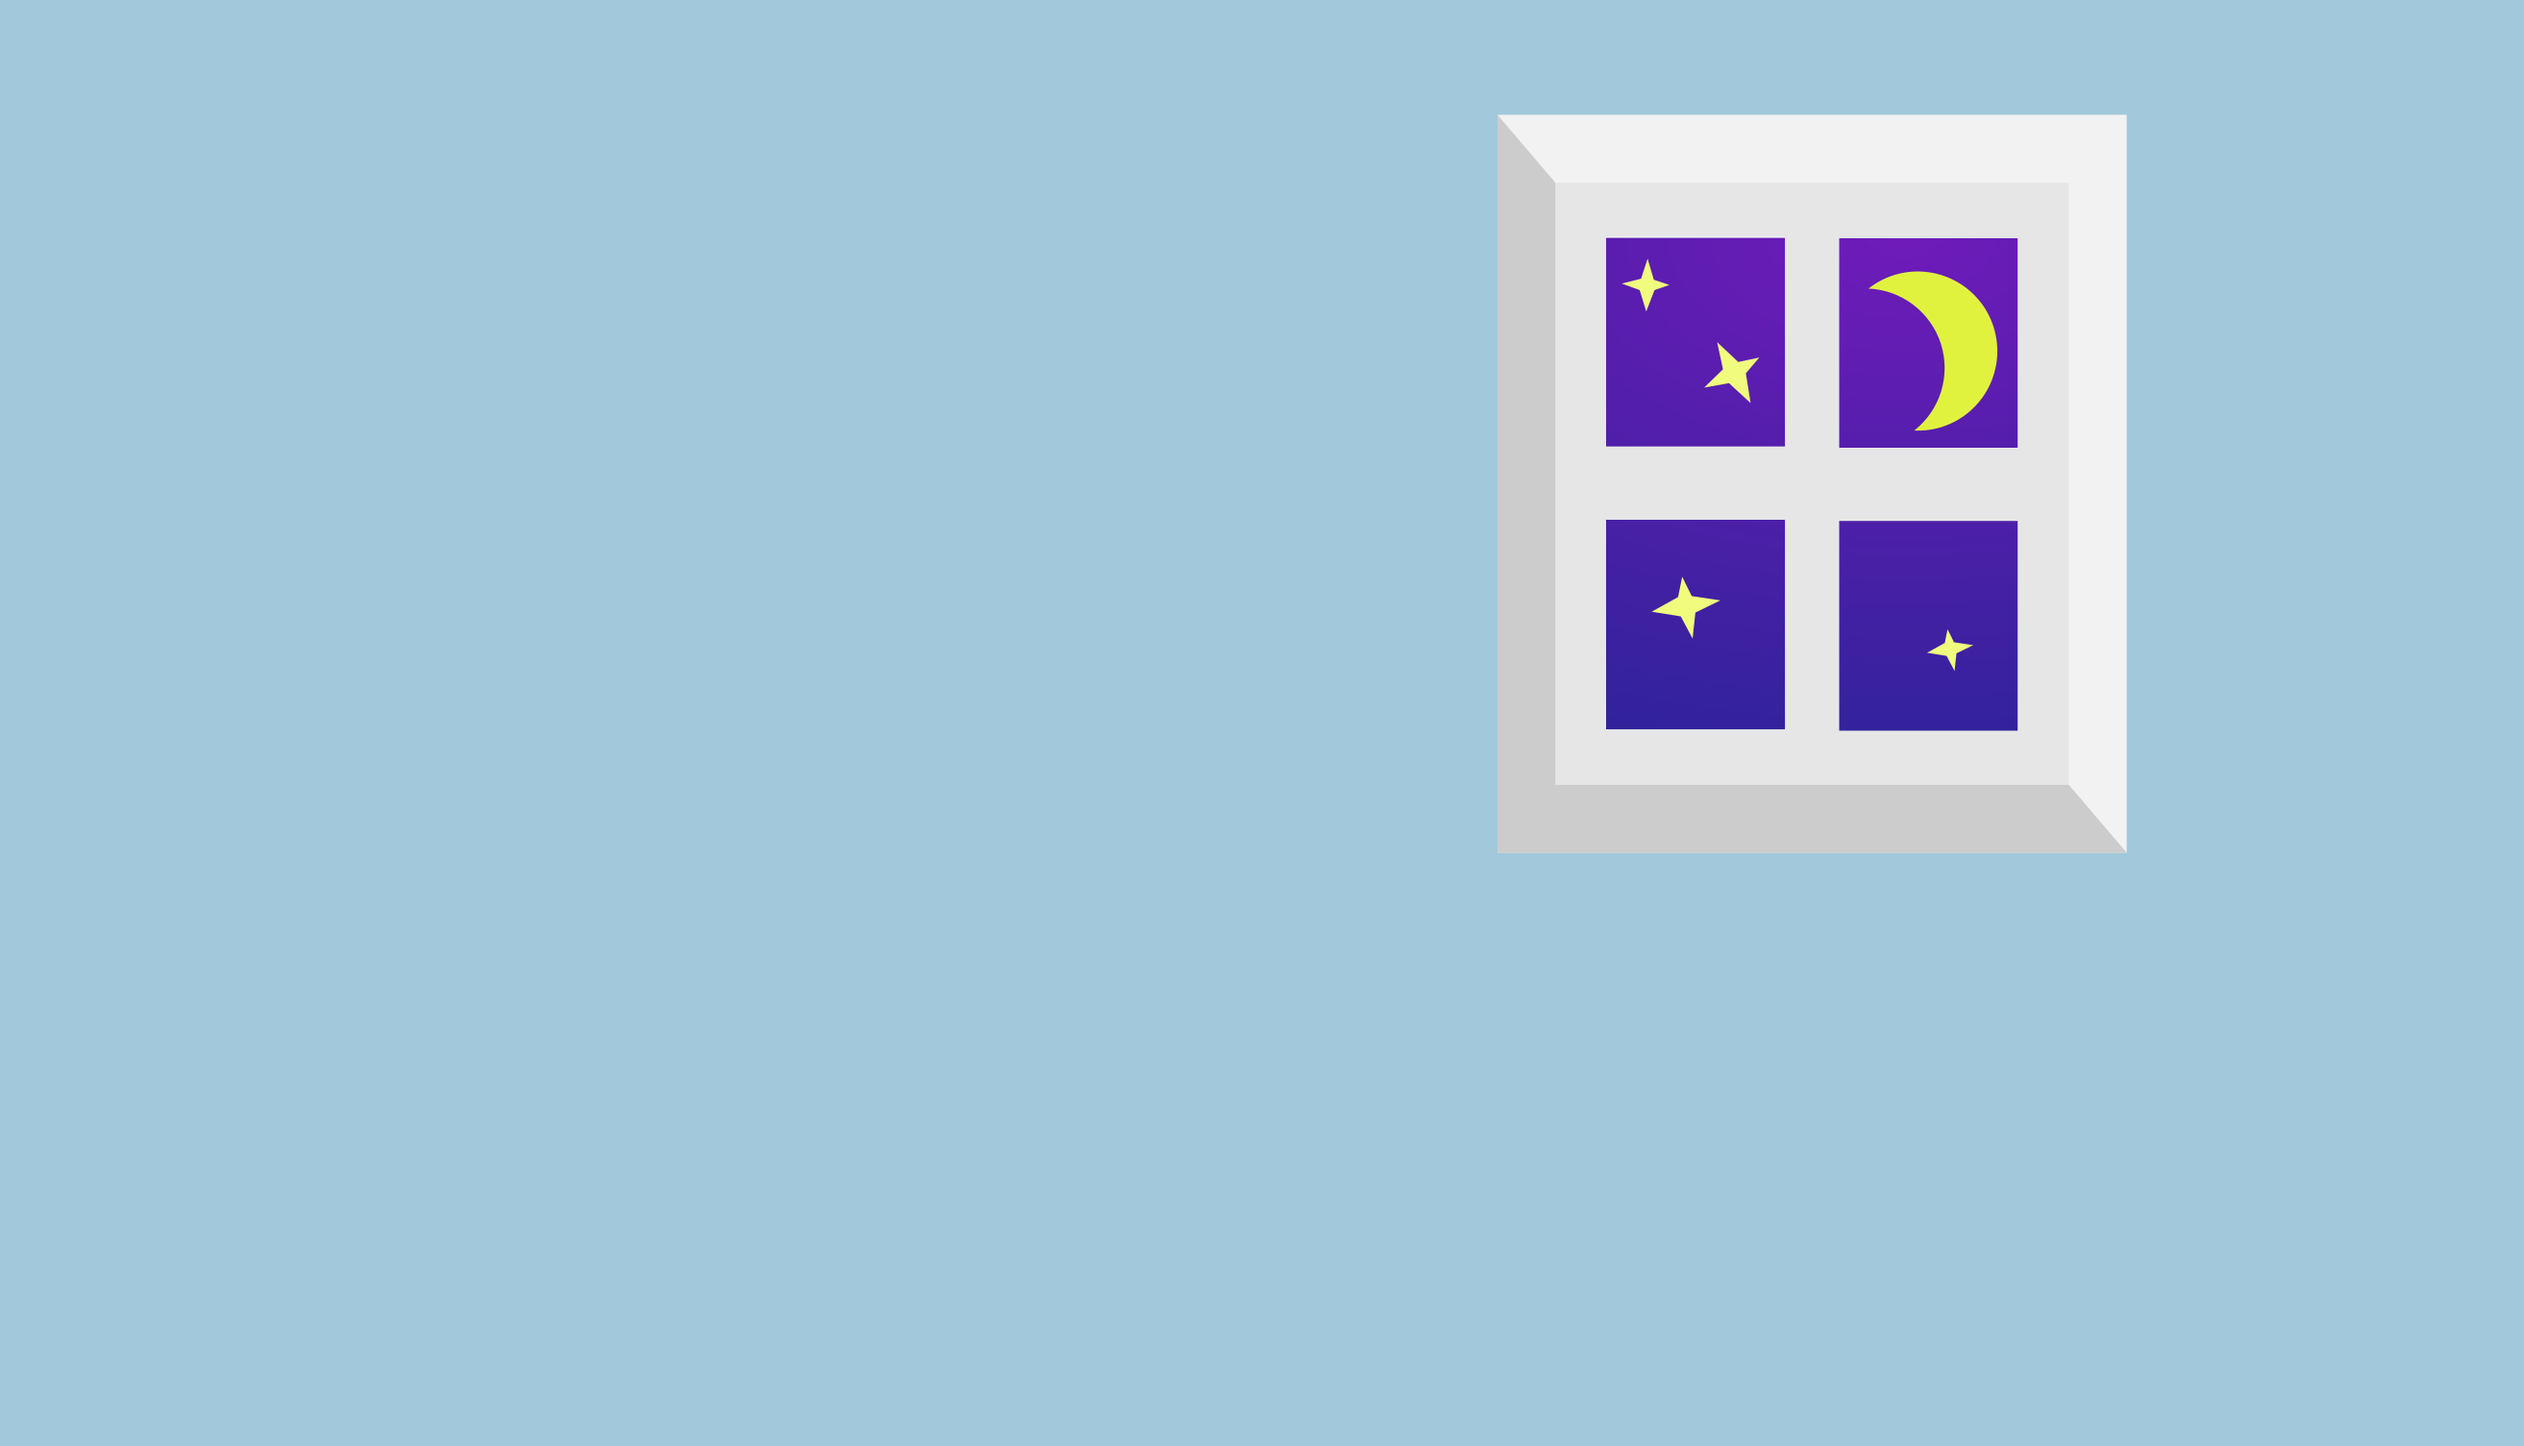
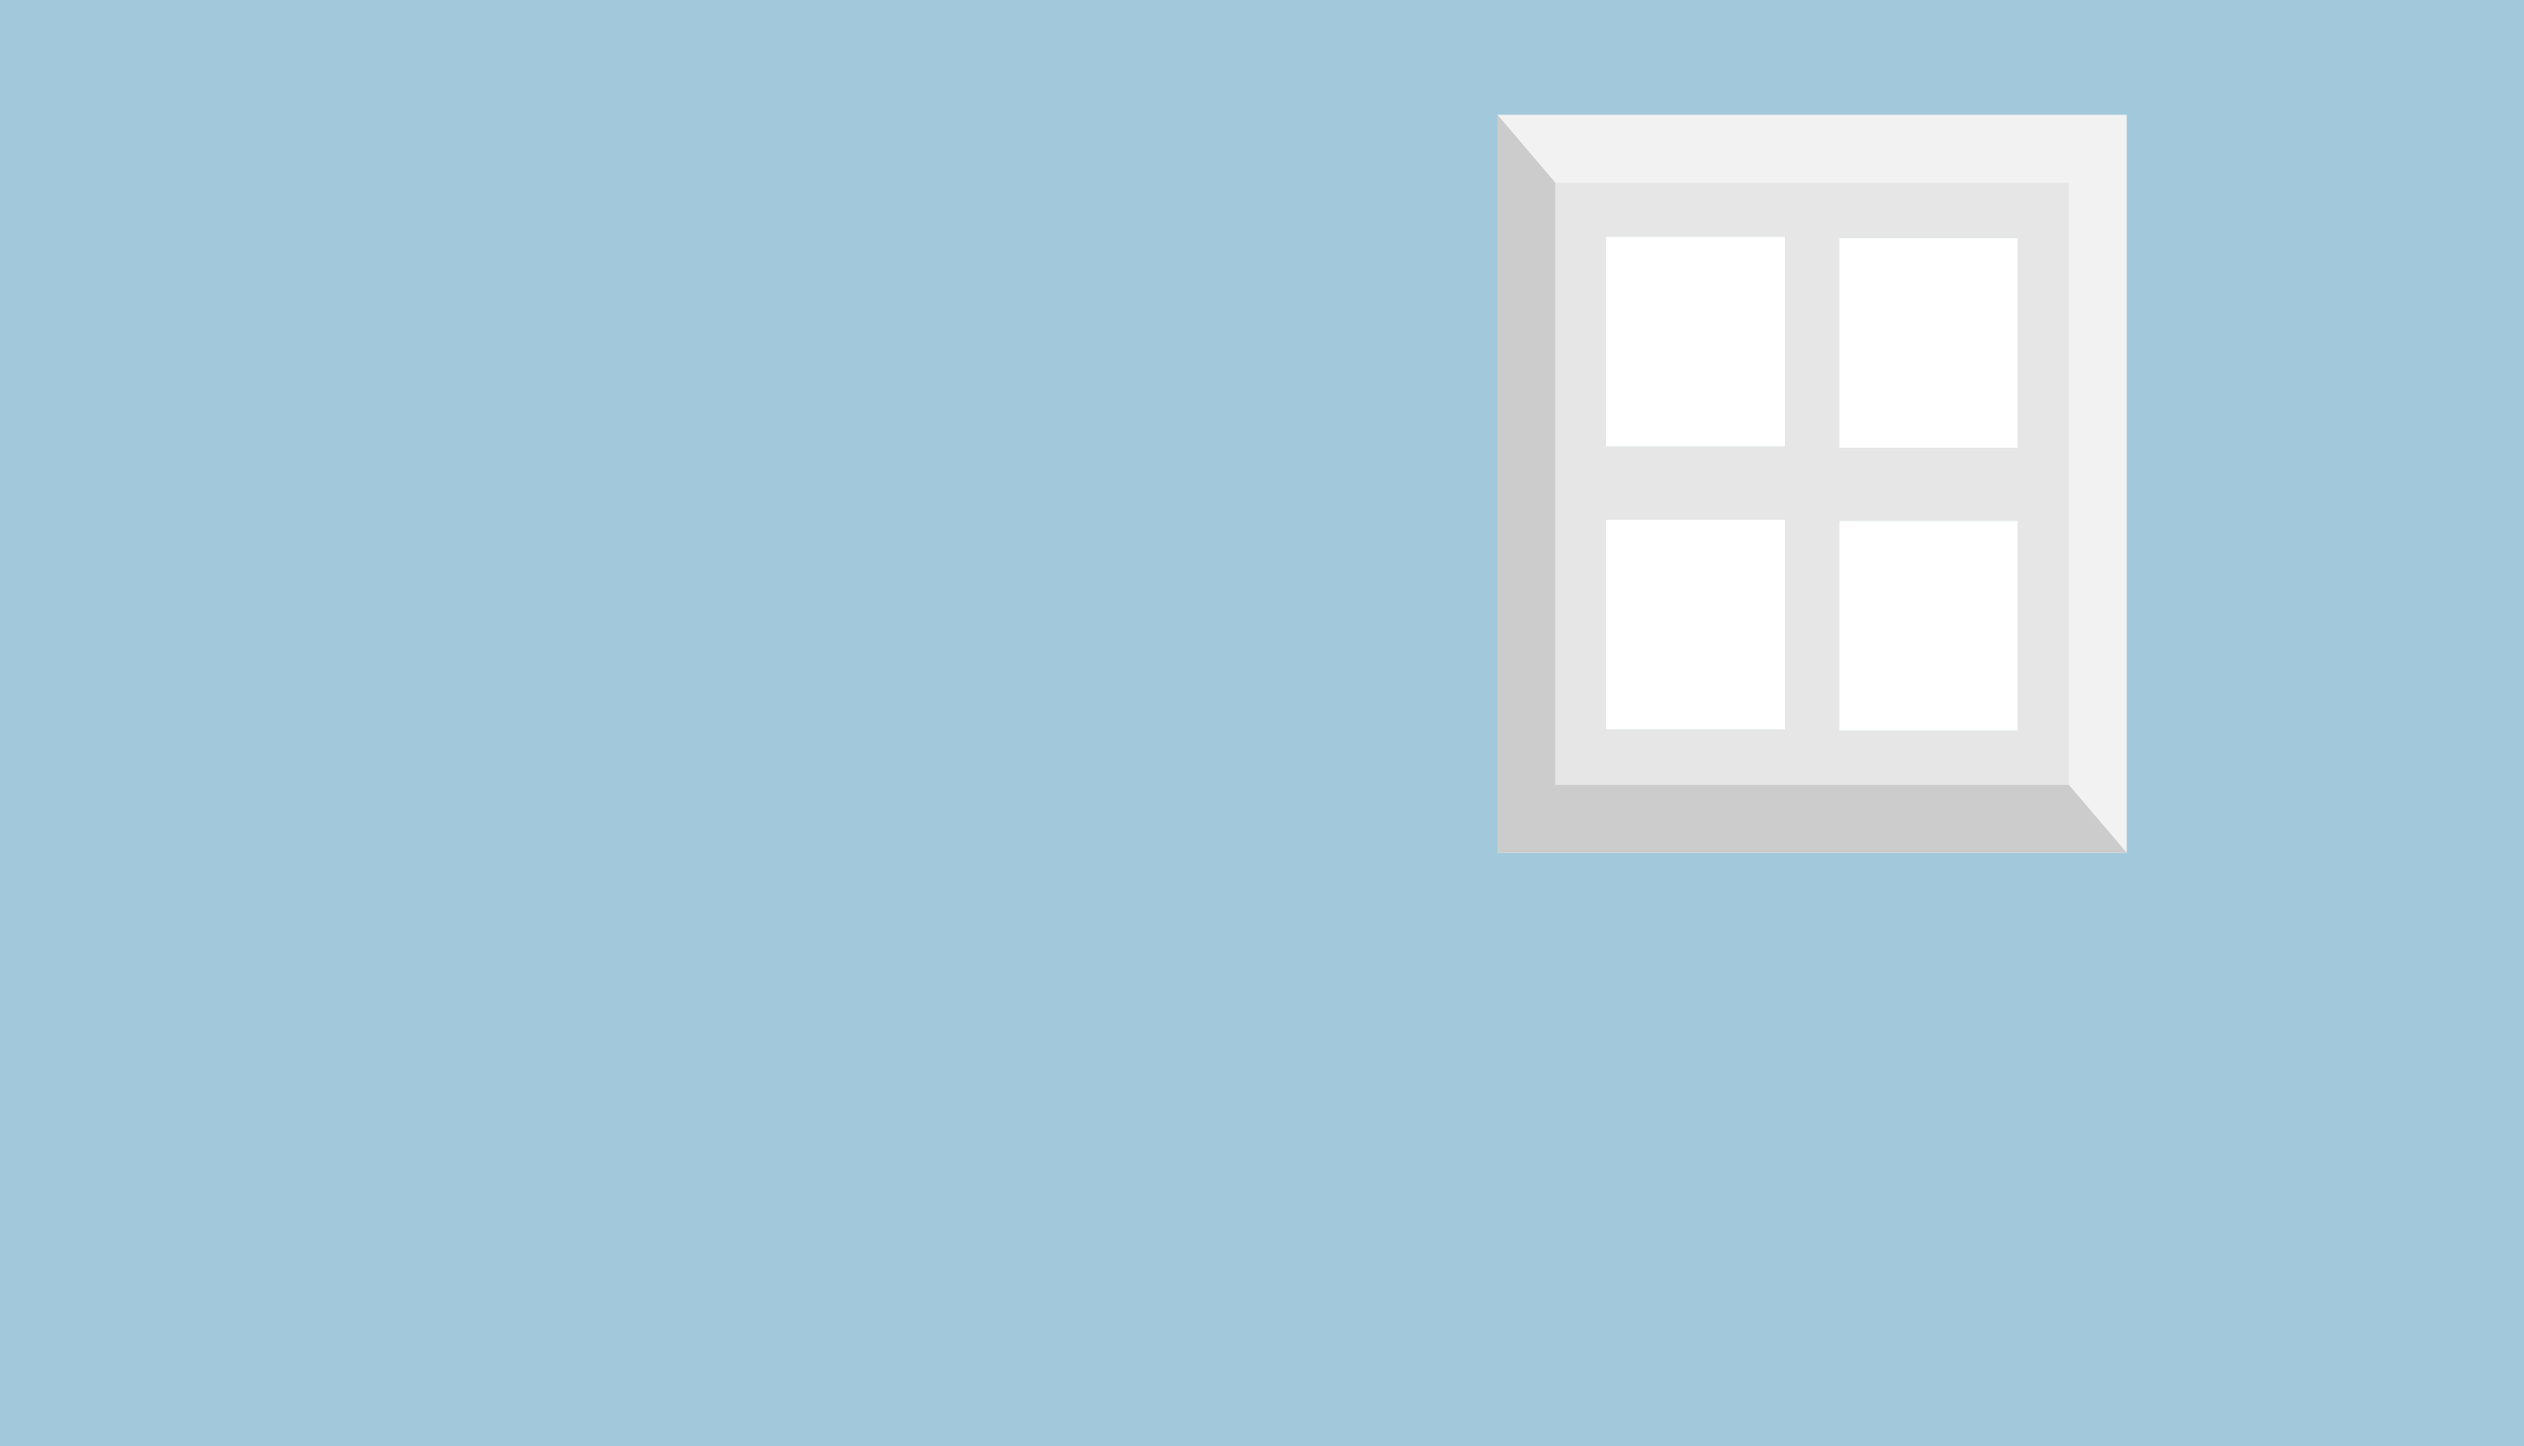
Level Adjustments (#53)
* Counter adjustments and rotating sky

* Bounds Walls

* Fixing Bowl Bottom

Changed region(s): [[0.6245, 0.3435, 0.8119, 0.5309], [0.6245, 0.1561, 0.8119, 0.3123]]

diff --git a/fishmodel.cpp b/fishmodel.cpp
@@ -263,10 +263,14 @@ void FishModel::updateGameObjects(){
 		//Update all GameObjects once per frame.
 		gameObject->updateObject(deltaTime);
 
-		int hashCode = std::hash<std::string>()(gameObject->getName());
+		if (gameObject->getToRender())
+		{
+			int hashCode = std::hash<std::string>()(gameObject->getName());
 
-		ObjectRenderInformation renderInfo {gameObject->getLocation(), gameObject->getRotation(), gameObject->getScale(), gameObject->getGraphic(), gameObject->getLayer(), hashCode};
-		renderables.push(renderInfo);
+			ObjectRenderInformation renderInfo {gameObject->getLocation(), gameObject->getRotation(), gameObject->getScale(), gameObject->getGraphic(), gameObject->getLayer(), hashCode};
+			renderables.push(renderInfo);
+		}
+
 		auto* toPhysics = dynamic_cast<PhysicsGameObject*>(gameObject);
 
 		//If we're debugging we want to render fixtures.
@@ -481,15 +485,20 @@ void FishModel::setScene(SCENE_STATE scene)
 
 	if (currentScene != START && currentScene != END)
 	{
-		background = new GameObject("background",QPointF(0,0),0,QPointF(20,14),QImage(":/res/background.png"),0);
-		addGameObjectToScene(new Countertop(0), false);
+		background = new GameObject("background",QPointF(0,0),0,QPointF(26,15),QImage(":/res/background.png"),-1);
+		GameObject* sky = new GameObject("sky", QPointF(5.3, -1), 180, QPointF(13,13), QImage(":/res/sky_wheel.png"), -2);
+		addGameObjectToScene(sky, false);
+		addGameObjectToScene(new Countertop(QPointF(0,-7), QPointF(20,4.7)), false);
+		addGameObjectToScene(new Wall("left wall", QPointF(-22.5, 0),QPointF(25, 14.5)), false);
+		addGameObjectToScene(new Wall("right wall", QPointF(22.5, 0),QPointF(25, 14.5)), false);
+		addGameObjectToScene(new Wall("ceiling", QPointF(0, 19.5),QPointF(25, 25)), false);
 		addGameObjectToScene(new Filter(), false);
 		addGameObjectToScene(new WaterPump(), false);
 		addGameObjectToScene(tank, false);
 	}
 	else
 	{
-		background = new GameObject("background",QPointF(0,0),0,QPointF(20,14),QImage(":/res/start_background.png"),0);
+		background = new GameObject("background",QPointF(0,0),0,QPointF(20.7,14.5),QImage(":/res/start_background.png"),-1);
 	}
 
 	addGameObjectToScene(background, false);

diff --git a/physicscountertop.cpp b/physicscountertop.cpp
@@ -3,14 +3,14 @@
  * Last Modified - 12/12/2021
  */
 #include "physicscountertop.h"
-Countertop::Countertop(double rotation)
-		: PhysicsGameObject("countertop",QPointF(0,-5),rotation,QPointF(20,0.5),createBodyDef(b2_staticBody),QImage(":/res/counter.png")){
+Countertop::Countertop(QPointF _position, QPointF _scale)
+		: PhysicsGameObject("countertop",_position,rotation,_scale,createBodyDef(b2_staticBody),QImage(":/res/counter.png")){
 
 }
 
 void Countertop::setBody(b2Body *newBody) {
 	b2PolygonShape wall;
-	wall.SetAsBox(20,0.25,b2Vec2(0,0),0);
+	wall.SetAsBox(scale.x/2,scale.y/2);
 
 	b2FixtureDef wallFixture;
 	wallFixture.shape = &wall;

diff --git a/physicsclock.cpp b/physicsclock.cpp
@@ -13,6 +13,8 @@ Clock::Clock() :
 
 void Clock::start()
 {
+	sky = (GameObject*) callbackOptions.getGameObject("sky");
+
 	hourHand = new GameObject("hour hand", QPointF(position.x, position.y), rotation, QPointF(scale.x, scale.y),QImage(":/res/hour_hand.png"), 2);
 	callbackOptions.addGameObject(hourHand);
 
@@ -56,6 +58,8 @@ void Clock::onMouseHold(QPointF position){
 
 void Clock::drawClock(){
 	QTransform rotationT;
-	hourHand->setRotation(-time/24*360);
+	hourHand->setRotation(-time/12*360);
 	minuteHand->setRotation(-time*360);
+	if (sky != nullptr)
+		sky->setRotation(180 - time/24*360);
 }

diff --git a/physicswall.cpp b/physicswall.cpp
@@ -1,0 +1,20 @@
+#include "physicswall.h"
+
+Wall::Wall(std::string name, QPointF position, QPointF scale)
+	: PhysicsGameObject(name, position, 0, scale, createBodyDef(b2_staticBody), QImage(":/res/transparent.png"))
+{
+	render = false;
+}
+
+void Wall::setBody(b2Body* newBody)
+{
+	b2PolygonShape rectangle;
+	rectangle.SetAsBox(scale.x/2, scale.y/2);
+
+	b2FixtureDef mainFixture;
+	mainFixture.shape = &rectangle;
+	mainFixture.isSensor = false;
+
+	newBody->CreateFixture(&mainFixture);
+	PhysicsGameObject::setBody(newBody);
+}

diff --git a/physicsbowl.cpp b/physicsbowl.cpp
@@ -59,7 +59,7 @@ void Bowl::drawWater()
 	water.fill(Qt::transparent);
 	QPainter painter(&water);
 	painter.setBrush(QColor(0,75,225,225));
-	painter.drawEllipse(0 + emptyBucket.width()*0.075,-emptyBucket.height(),emptyBucket.width()*0.85,emptyBucket.height()*2);
+	painter.drawEllipse(0 + emptyBucket.width()*0.075,-emptyBucket.height(),emptyBucket.width()*0.85,emptyBucket.height()*1.95);
 	QBrush transparentBrush;
 	transparentBrush.setStyle(Qt::BrushStyle::SolidPattern);
 	transparentBrush.setColor(Qt::transparent);

diff --git a/gameobject.cpp b/gameobject.cpp
@@ -1,6 +1,6 @@
 /**
  * Authors - Alex Richins, William Erignac
- * Last Modified - 12/8/2021
+ * Last Modified - 12/14/2021
  *
  * A standard object in the game engine. A GameObject
  * always has at least a transformation (loc,rot,scale)
@@ -92,6 +92,14 @@ int GameObject::getLayer()
 std::string GameObject::getName() const
 {
 	return name;
+}
+
+/**
+ * @brief Returns whether this object should be rendered.
+ */
+bool GameObject::getToRender()
+{
+	return render;
 }
 
 /**

diff --git a/gameobject.h b/gameobject.h
@@ -17,9 +17,9 @@ protected:
 	b2Vec2 scale;
 	double rotation;
 	std::string name;
-protected:
 	QImage graphic;
 	int renderLayer;
+	bool render = true;
 	CallbackOptions callbackOptions;
 public:
 	GameObject();
@@ -29,6 +29,7 @@ public:
 	double getRotation();
 	QPointF getScale();
 	QImage getGraphic();
+	bool getToRender();
 	void setName(const std::string &name);
 	void setGraphic(const QImage &graphic);
 	void setLocation(QPointF location);

diff --git a/physicswall.h b/physicswall.h
@@ -1,0 +1,13 @@
+#ifndef PHYSICSWALL_H
+#define PHYSICSWALL_H
+
+#include <physicsgameobject.h>
+
+class Wall : public PhysicsGameObject
+{
+public:
+	Wall(std::string name, QPointF position, QPointF scale);
+	void setBody(b2Body* newBody);
+};
+
+#endif // PHYSICSWALL_H

diff --git a/fishmodel.h b/fishmodel.h
@@ -41,7 +41,7 @@ private:
 	std::vector<Fish> fishInTank;
 	void createQuests();
 
-	bool debug = true;
+	bool debug = false;
 
 	QImage getColliderShape(b2Shape *shape, QColor penColor, QPointF &translation);
 	// The current scene to draw

diff --git a/physicscountertop.h b/physicscountertop.h
@@ -1,6 +1,6 @@
 #include "physicsgameobject.h"
 class Countertop : public PhysicsGameObject{
 public:
-	Countertop(double rotation);
+	Countertop(QPointF position, QPointF(scale));
 	virtual void setBody(b2Body* newBody);
 };

diff --git a/physicgameobjectsfile.h b/physicgameobjectsfile.h
@@ -14,5 +14,6 @@
 #include "physicstank.h"
 #include "physicswaterpump.h"
 #include "physicsstartbutton.h"
+#include "physicswall.h"
 
 #endif // PHYSICGAMEOBJECTSFILE_H

diff --git a/physicsclock.h b/physicsclock.h
@@ -16,4 +16,5 @@ private:
 	void drawClock();
 	GameObject* hourHand;
 	GameObject* minuteHand;
+	GameObject* sky;
 };
